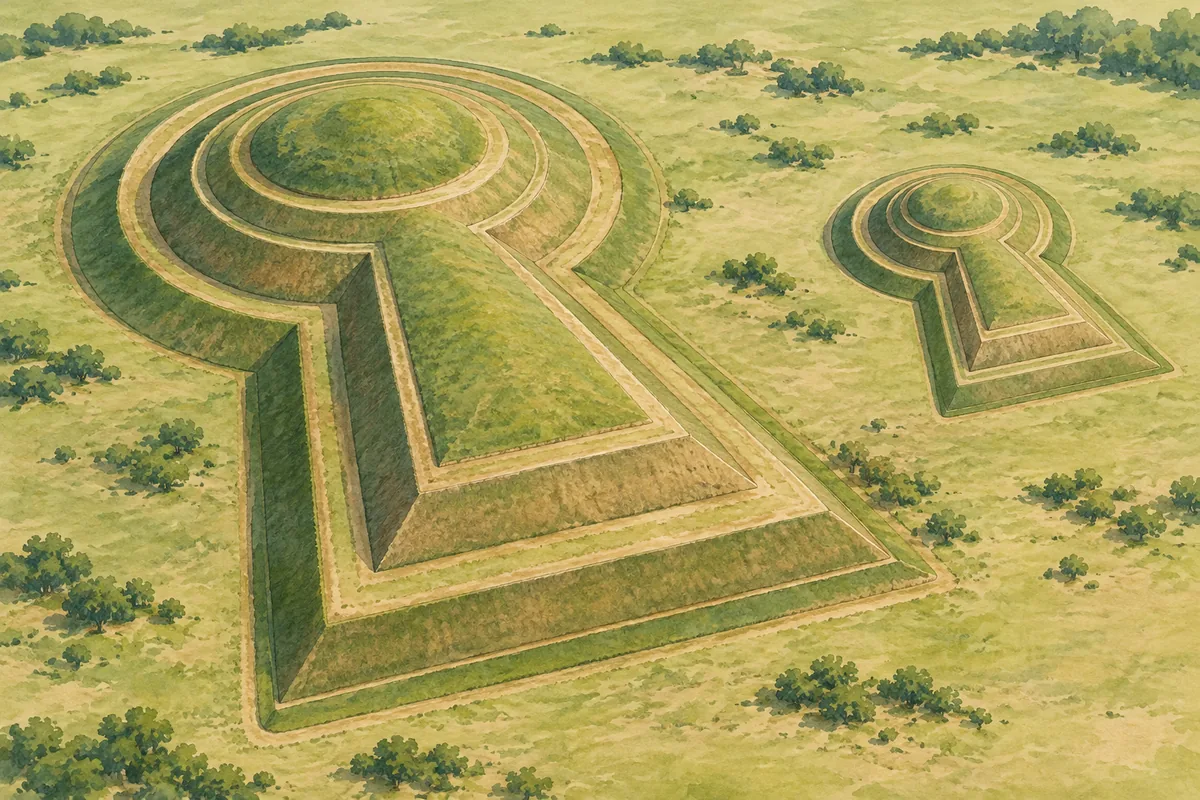
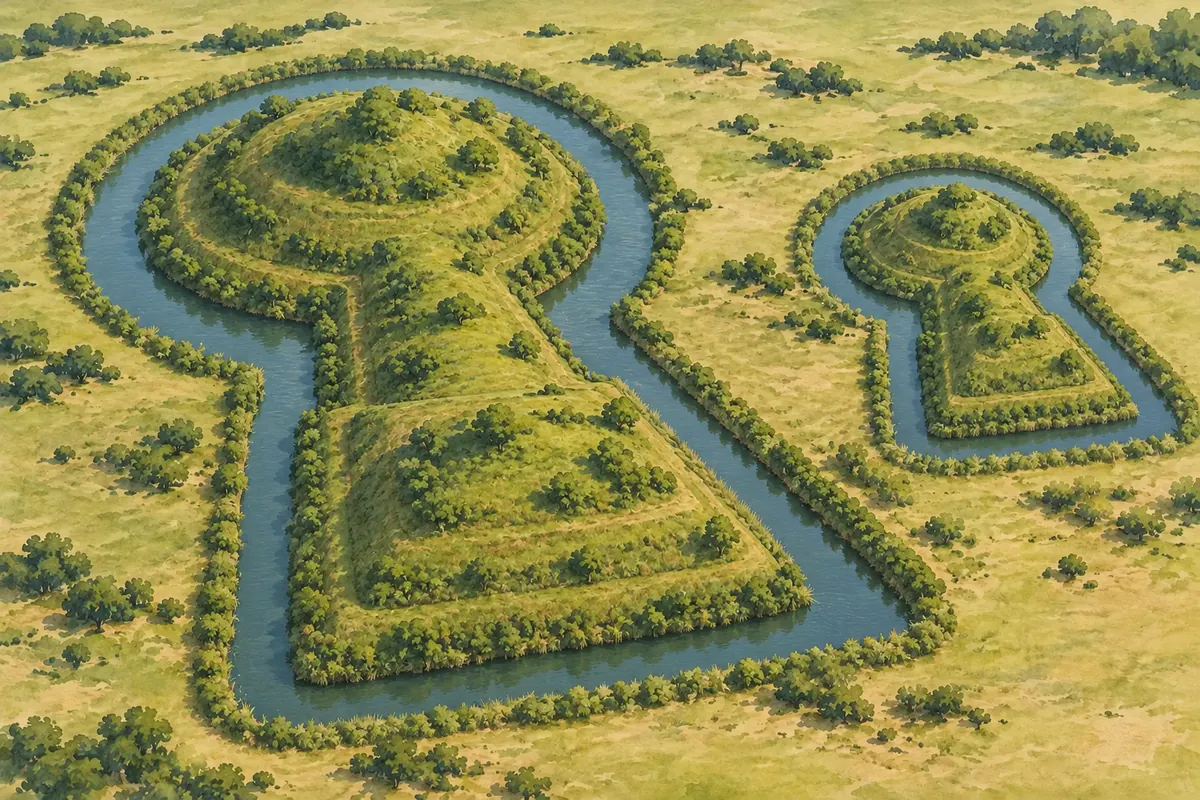
Finalize kofun illustration after checking supplied aerial photograph

diff --git a/HAND_SOCIAL6_PICTURES.md b/HAND_SOCIAL6_PICTURES.md
@@ -1,6 +1,6 @@
 # 小6社会 画像制作記録
 
-第1回の履歴と、第2回の変更・保留事項を記録する。現状は末尾の第2回を参照。
+第1回の履歴と、第2回の変更・保留事項を記録する。古墳の保留は利用者提供写真との照合で解消済み。現状は末尾の追補を参照。
 
 # 第1回 画像制作記録
 
@@ -862,3 +862,16 @@ Correct this educational aerial view of TWO DIFFERENTLY SIZED Japanese keyhole b
 - 変更前後をdiagram以外の全フィールドで比較し、336問の内容が同一であることを確認。
 - 新規28問と修正2枚の対象3問を、390px幅の実際の問題画面で表示し、画像のdecode完了を待って31問を撮影。18枚の縮小一覧と、A/B・地図・魚骨・琵琶の代表画面を目視。A/Bの判読とcaptionの表示を確認。作業時の撮影先は `/tmp/so6-round2/screens/`。
 - 古墳候補・金剛力士像は上記検査の完成対象に含めない。
+
+
+# 第2回追補：大仙古墳の添付写真と照合し、古墳006を差し替え
+
+- 資料：利用者が会話に添付した `NintokuTomb_Aerial_photograph_2007.jpg`。画像そのものを目視確認した。先の通信制限による未確認状態は、この添付で解消した。
+- 目視した点：前方部と後円部が一つの墳丘としてつながり、前方部の先端と側面を含む墳丘全体の周囲に水のある堀が回る。前方部も後円部と同様に樹木に覆われている。石積みのピラミッド状の階段ではない。
+- 写真では植生が密で段の細部は見えないため、段数・傾斜・寸法を写真から確認したとは扱わない。写真の多重の堀や現代市街地をそのまま再現する絵ではなく、利用者指定の大小二つの墳丘を比較する学習用の再構成として、ゆるやかな地形と一周の堀を示す。
+- 採用：前節に全文記録した「保留中の古墳候補プロンプト」で生成した候補を、添付写真と比較して採用。今回は追加生成せず、保持していた原画を縮小・WebP化した。
+- ファイル：`img/diagrams/soc6_prehistoric_006.webp`。1200×800、194,914 bytes、WebP quality 79。
+- 対象：`social_g6_prehistoric_008`・`social_g6_prehistoric_025`・`social_g6_prehistoric_027`。同名ファイルの置換のみで、問題ID・diagramの登録・alt・caption・reviewedは変更しない。既存fixtureの対応も同じなので書き換えない。
+- 第2回の最終反映：修正3枚（prehistoric_001・006・007）、新規16枚（heian7・kamakura9）。金剛力士像008は前節の理由で見送りを継続。合計37枚・61問、画像計画96枚・161問の集計は変わらない。
+- 前節の「古墳の照合待ち」「未登録」「残作業」はこの追補で解消した過去の記録。次の単元には進まない。
+- 差し替え後の検査：`node tests/run.js` は908件成功・0件失敗。対象3問を390px幅で撮影し、全周の堀・前方部・大小の違い・captionの表示を目視確認した（`/tmp/so6-round2/kofun-screens/`）。

diff --git a/PICTURE_PLAN_SOCIAL6.md b/PICTURE_PLAN_SOCIAL6.md
@@ -2,7 +2,7 @@
 
 対象：questions/social_g6_course.js の collection: course_so6_1、全12単元336問。国別の8問の差し替え後（コミット9cab3bc）の内容に対応する。既存見本27問は今回の計画へ重複計上しない。
 
-第1回は縄文〜古墳・飛鳥・奈良の21枚を登録済み。第2回は平安7枚・鎌倉9枚を登録。金剛力士像は実物写真を目視確認できず除外した。他の単元は計画のみ。ファイル番号は変更しない。縄文土器・魚骨を修正済み。古墳の修正版候補は実物空撮の照合待ちで、現行ファイルの置換は保留。
+第1回は縄文〜古墳・飛鳥・奈良の21枚を登録済み。第2回は平安7枚・鎌倉9枚を登録。金剛力士像は実物写真を目視確認できず除外した。他の単元は計画のみ。ファイル番号は変更しない。縄文土器・魚骨・古墳の3枚を修正済み。古墳は利用者が添付した大仙古墳の空撮写真と照合して差し替えた。
 
 ## 枚数と対象範囲
 
@@ -229,5 +229,5 @@
 
 - 新規16枚（平安7・鎌倉9）を28問に登録。第1回と合わせて37枚・61問。
 - soc6_kamakura_008.webp（social_g6_kamakura_019）は計画から除外して図なし。東大寺公式ページで阿形・吽形の写真掲載と制作年代の説明は確認できたが、写真本体は環境の通信制限（HTTP 403）で取得できず、検索ツールでも画像の画素を目視できなかった。腕・体幹の造形を確認済みと扱わない。
-- soc6_prehistoric_006.webpは、堀と前方部を修正した候補を生成した。実物空撮との目視照合が未完了なので既存画像は置き換えていない。写真を確認できてから同名・同じ問題対応で差し替える。
-- 作り直した2枚と新規16枚のプロンプト・確認範囲・資料はHAND_SOCIAL6_PICTURES.mdの第2回記録を参照。
+- soc6_prehistoric_006.webpは、利用者添付の大仙古墳の空撮写真を目視し、全体を囲む堀・つながった前方部と後円部・前方部の植生を候補と照合して差し替えた。大小二つの比較構成を保つ学習用再構成であり、大仙古墳そのものの測量図ではない。
+- 作り直した3枚と新規16枚のプロンプト・確認範囲・資料はHAND_SOCIAL6_PICTURES.mdの第2回記録を参照。

diff --git a/DECISIONS.md b/DECISIONS.md
@@ -2390,3 +2390,9 @@
 - 新規・修正の全18枚は1200×800、200,000バイト以下のWebP。画像・問題対応・プロンプト・資料・描き直し理由を記録。336問はdiagram以外の内容を変更していない。
 - tests/fixtures/social6-images-2.jsonと既存画像検査を更新。node tests/run.js：908件成功、0件失敗。対象31問を390pxで撮影し、画像の縮小一覧と代表画面を目視確認。
 - 完了分をcommit・pushして停止。古墳は空撮写真が確認できてから同名ファイルの置換・テスト・pushを行う。次の単元へ進まない。
+
+## 525. 小6社会：添付空撮との照合で古墳006の保留を解消（Codex）
+- 利用者が添付したNintokuTomb_Aerial_photograph_2007.jpgを目視。前方部を含む全周の堀、連続する前方部・後円部、前方部も植生に覆われる点を修正版候補と照合した。植生に隠れた段数・寸法を写真から確認したとは扱わない。
+- 保持していた候補を同名のsoc6_prehistoric_006.webpとして採用。大小二つの比較構成を保つ学習用再構成で、大仙古墳の測量図ではない。1200×800、194,914バイト。
+- 対象prehistoric_008・025・027の登録、alt/caption、fixture対応を保持。HAND_SOCIAL6_PICTURES.mdに写真照合と採用記録を追記し、計画の保留表示を更新。
+- node tests/run.jsは908件成功・0件失敗。390px幅の対象3問を撮影して目視確認。第2回は修正3枚・新規16枚の反映を完了。金剛力士像の見送りは継続。commit・pushして停止し、次の単元には進まない。
